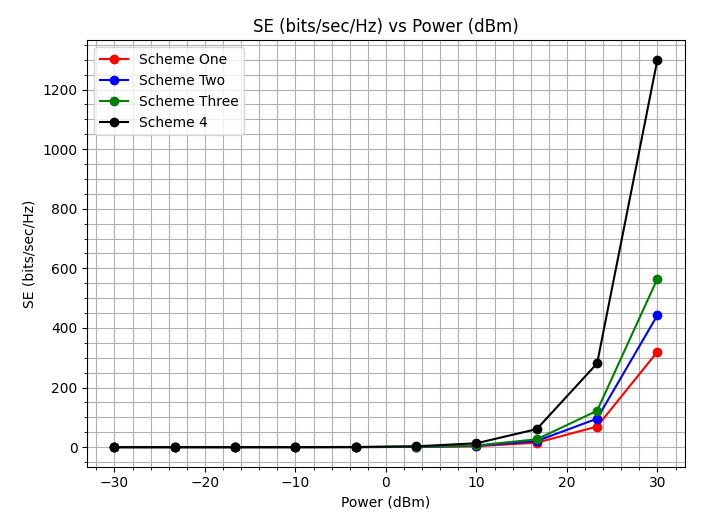
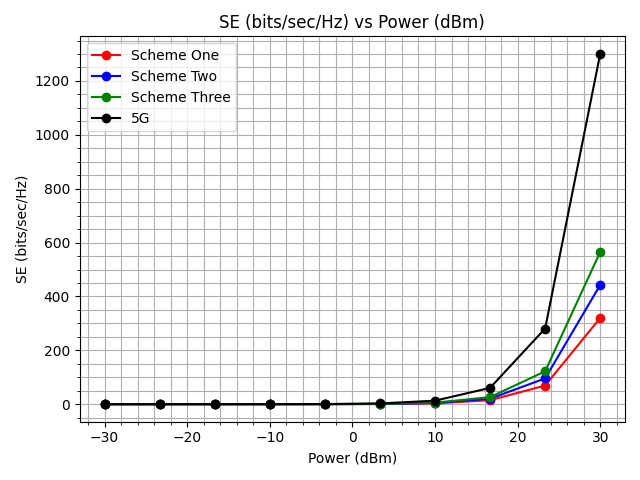
update images

diff --git a/models.py b/models.py
@@ -320,7 +320,7 @@ DR4, SE4 = calculate_values(Bandwidth[8], PowerWatts, kb, d) # Channel 2
 plot_data_vs_power(
     PowerDBM, [SE1, SE2, SE3, SE4], 
     ['-ro', '-bo', '-go', "-ko"], 
-    ['Scheme One', 'Scheme Two', 'Scheme Three', "Scheme 4"], 
+    ['Scheme 1', 'Scheme 2', 'Scheme 4', "5G"], 
     'SE (bits/sec/Hz)', 
     'SE (bits/sec/Hz) vs Power (dBm)', 
     9
@@ -331,9 +331,12 @@ plot_data_vs_power(
     PowerDBM, 
     [DR1, DR2, DR3, DR4], 
     ['-ro', '-bo', '-go', "-ko"], 
-    ['Scheme 1', 'Scheme 2', 'Scheme 3', "Scheme 4"], 
+    ['Scheme 1', 'Scheme 2', 'Scheme 3', "5G "], 
     'Data Rate (bps)', 
     'Data Rate vs Power (dBm)', 
     10
 )
+
+print("DR4", DR4)
+print("SE", SE4)
 # ------------------------------------------------------------------------------------------------------------------------------------------------------
